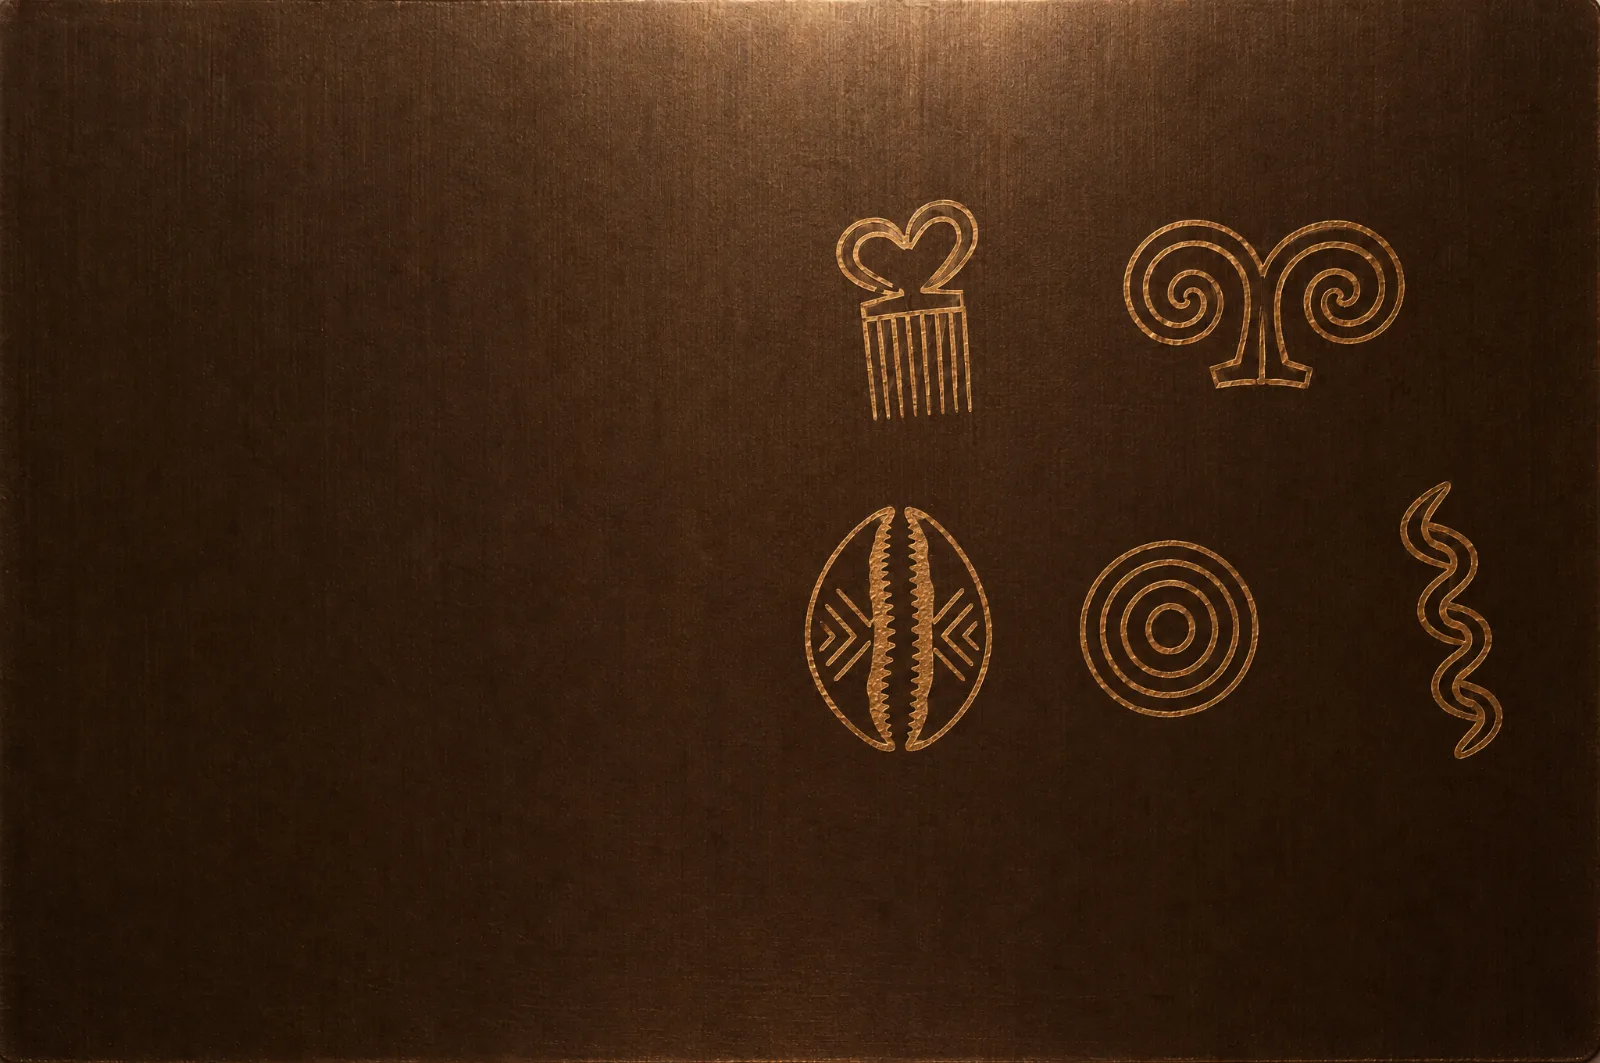
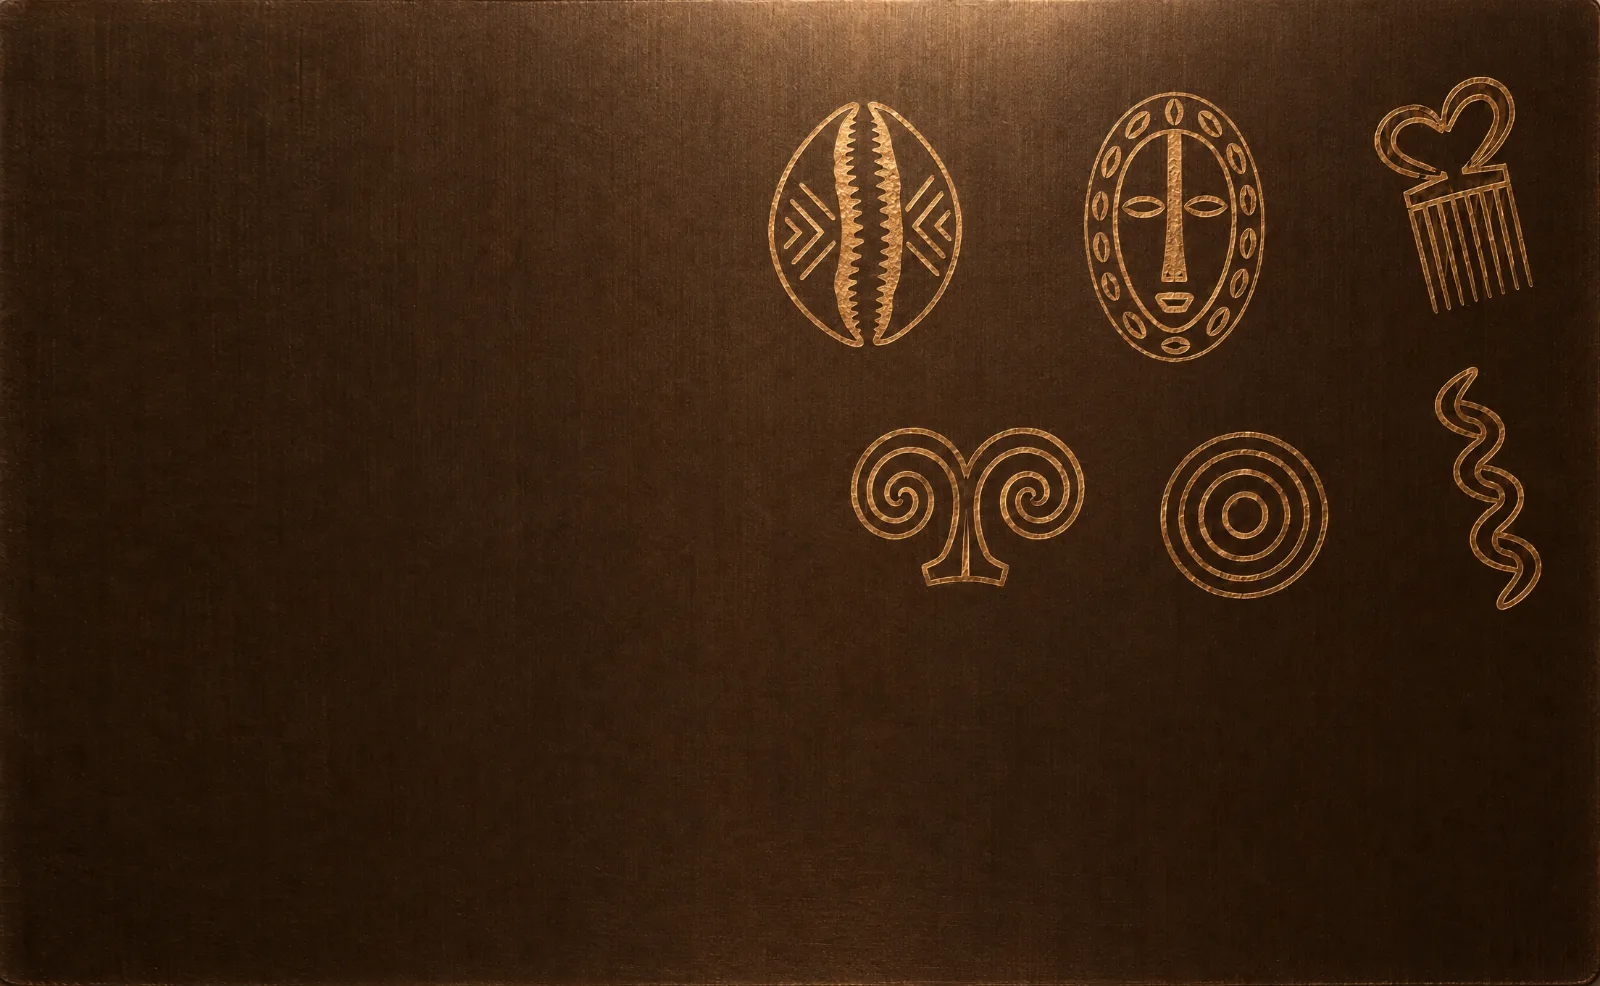
The card is one engraved object: a mask among six marks, and the type cut in the same gold
The owner rejected Playfair Display and asked for the first logo's face, which
the repository has never held — EtherealDemo-ExtraBold was a demo file, and
only the traced « Keelis » outlines were ever here. Outfit Black stands in,
the nearest open geometric black, self-hosted under SIL OFL, at 22px and
−0.045em, measured as where its round letters just stop touching.

They also asked for more symbols, a mask among them, in the corner disposition
of the first render, and for the type to carry the engraving's texture. A new
render from the first as image reference keeps its brushed metal and textured
gold and gathers six marks at one size toward the upper-right: the cowrie, a
West African mask ringed with cowries, Duafe, Dwennimmen, Adinkrahene and
Nkyinkyim. Its cowrie began where the name ends, so the source is widened by
160px on the left — the plain edge stretched along the grain, since a mirror
left a seam. The name, the number, the holder and the expiry are etched in the
same gold with two hairlines of relief, `--accent-etch` and `--text-etch`.

Verified: 281 unit tests, design check, the card page audited clean at 390 and
1440 in both themes on the final build, and all eighteen money flows.

Claude-Session: https://claude.ai/code/session_0169KRSSjajEYunkVuigzQ4Y

diff --git a/src/styles/tokens.css b/src/styles/tokens.css
@@ -240,15 +240,23 @@
   /* Financial figures use the same family with tabular figures, so columns line up.
      Bold, not black: at display sizes the size already carries the hierarchy. */
   --font-numeric: var(--font-sans);
-  /* The brand face on the virtual card: Playfair Display at its black weight, the owner's
-     choice for the name written on the card. Tracked tight — the owner asked for the letters
-     to sit with « little to no space between them, but not on top of each other »; −0.07em
-     is where Playfair's serifs just stop touching at 24px, measured: at −0.08em the two
-     e's of « Keewal » meet. */
-  --font-brand: "Playfair Display", "Georgia", "Times New Roman", serif;
-  --fs-card-name: 24px;
-  --ls-card-name: -0.07em;
+  /* The brand face on the virtual card: Outfit at its black weight, standing in for the
+     first logo's EtherealDemo-ExtraBold, which the repository does not hold. Tracked tight
+     because the owner asked for the letters to sit with « little to no space between them,
+     but not on top of each other »: measured at 22px, −0.045em is where Outfit's round
+     letters just stop touching. */
+  --font-brand: "Outfit", "Poppins", system-ui, sans-serif;
+  --fs-card-name: 22px;
+  --ls-card-name: -0.045em;
   --fw-card-name: 900;
+  /* The type on the card is engraved like its symbols: the etch gold — deeper than --cta
+     so a line on brushed brown reads as metal catching light, named in the accent family
+     because it is the one place outside the ramp allowed the accent's chroma — and a
+     letterpress relief, a hair of shadow above and of light below, which is what a laser
+     leaves in metal. Two hairlines at low alpha, not a glow: the owner does not want a
+     shadow on anything, and this is the one kind that is the texture rather than an effect. */
+  --accent-etch: oklch(0.78 0.105 84);
+  --text-etch: 0 -1px 0 oklch(0.12 0.02 60 / 0.55), 0 1px 0 oklch(0.95 0.05 90 / 0.22);
   --fw-numeric: 500;
   /* Big figures need optical compensation twice over: at 48px the counters carry
      themselves, so the weight can come down and the tracking can come in. */

diff --git a/src/styles/fonts.css b/src/styles/fonts.css
@@ -69,16 +69,18 @@
   unicode-range: U+0100-02BA, U+02BD-02C5, U+02C7-02CC, U+02CE-02D7, U+02DD-02FF, U+0304, U+0308, U+0329, U+1D00-1DBF, U+1E00-1E9F, U+1EF2-1EFF, U+2020, U+20A0-20AB, U+20AD-20C0, U+2113, U+2C60-2C7F, U+A720-A7FF;
 }
 
-/* Playfair Display Black — the brand face on the virtual card, and nowhere else yet. The
-   owner asked for the name set in « the boldest Playfair Display » on the card, tracked
-   tight, in place of the K disc. SIL Open Font License, self-hosted like Poppins; only the
-   Latin subset, because the two words it sets are Latin. Taken from the @fontsource
-   package (5.x) and copied here, so there is still no third-party request. */
+/* Outfit Black — the name on the virtual card, and nowhere else yet. The owner wants the
+   name on the card in the face of the first logo, EtherealDemo-ExtraBold — a demo release
+   that is not in this repository (only the traced « Keelis » outlines ever were, and they
+   are gone with the old name) and not licensed for commercial use. Outfit is the nearest
+   open face to it: a round geometric sans with a true black weight. SIL Open Font License,
+   self-hosted like Poppins, Latin subset only since the two words are Latin; taken from the
+   @fontsource package (5.x). It stands in until the owner supplies or licenses the real one. */
 @font-face {
-  font-family: 'Playfair Display';
+  font-family: 'Outfit';
   font-style: normal;
   font-weight: 900;
   font-display: swap;
-  src: url('/fonts/playfair-display-900-latin.woff2') format('woff2');
+  src: url('/fonts/outfit-900-latin.woff2') format('woff2');
   unicode-range: U+0000-00FF, U+0131, U+0152-0153, U+02BB-02BC, U+02C6, U+02DA, U+02DC, U+0304, U+0308, U+0329, U+2000-206F, U+20AC, U+2122, U+2191, U+2193, U+2212, U+2215, U+FEFF, U+FFFD;
 }

diff --git a/src/lib/photos.ts b/src/lib/photos.ts
@@ -83,9 +83,9 @@ export const PHOTOS = {
   card: {
     name: 'card',
     intent:
-      'The face of the virtual card, under the name, the last four digits and the holder’s name. A dark brown brushed-metal card lit by one warm light from the top, laser-engraved in textured butter-gold line: a cowrie shell from its slotted underside and four Adinkra symbols — Duafe, Dwennimmen, Adinkrahene, Nkyinkyim — all five at one size, laid out on the right half with space between them. The left half and the bottom band stay plain, because that is where the type sits.',
+      'The face of the virtual card, under the name, the last four digits and the holder’s name. A dark brown brushed-metal card lit by one warm light from the top, laser-engraved in textured butter-gold line: six marks at one size gathered toward the upper-right — a cowrie shell from its slotted underside, a West African mask ringed with cowries, Duafe, Dwennimmen, Adinkrahene and Nkyinkyim. The left half and the bottom band stay plain, because that is where the type sits; the source was widened by 160px on the left (its plain left edge stretched, along the grain) to keep the marks clear of the name.',
     present: true,
-    alt: 'Face de carte en métal brun brossé, gravée à l’or d’un cauri et de quatre symboles adinkra de même taille',
+    alt: 'Face de carte en métal brun brossé, gravée à l’or d’un cauri, d’un masque bordé de cauris et de quatre symboles adinkra',
     credit: 'Rendu commandé par le propriétaire sur son compte Higgsfield (GPT Image) — libre d’utilisation dans l’application',
     widths: [800, 1600],
     /* The picture is 3:2 and the card is 1.586:1, so the crop is vertical only; centred, the

diff --git a/src/features/checking/VirtualCard.module.css b/src/features/checking/VirtualCard.module.css
@@ -59,8 +59,17 @@
   font-weight: var(--fw-card-name);
   letter-spacing: var(--ls-card-name);
   line-height: 1;
-  color: var(--card-ink);
   white-space: nowrap;
+}
+/* Everything written on the card is engraved the way the symbols are — the same gold, the
+   same relief — so the number reads as cut into the metal beside the cowrie rather than
+   printed on a photograph of it. The owner asked for the type to carry the texture. */
+.name,
+.number,
+.holder,
+.expiry {
+  color: var(--accent-etch);
+  text-shadow: var(--text-etch);
 }
 .bottom {
   display: flex;
@@ -73,7 +82,6 @@
   letter-spacing: var(--ls-h2);
   font-weight: var(--fw-h2);
   font-variant-numeric: tabular-nums;
-  color: var(--card-ink);
 }
 .foot {
   display: flex;
@@ -87,7 +95,6 @@
   line-height: var(--lh-small);
   letter-spacing: 0.04em;
   text-transform: uppercase;
-  color: var(--card-ink-muted);
   min-width: 0;
   overflow: hidden;
   text-overflow: ellipsis;

diff --git a/CLAUDE.md b/CLAUDE.md
@@ -173,7 +173,7 @@ and the old wordmark only escaped that by shipping as outlines rather than as ty
 - **The front door is the sign-in.** The owner put the reference beside ours and asked for the same, and the difference was not the anatomy — that was already taken — but what the sheet *carries*: theirs holds the login, ours held three buttons, one of which led to a screen that held the login. Signing in is the front door for the person the app is for, and a button that leads to a door is a hallway. `/bienvenue` now carries the address and the code as two **pill fields** (`pill` on `Field`: `--r-pill`, and `--control-lg` tall, because a 44px control has to sit *inside* one with air on both sides), each with a **bare icon** at its head — the disc under it was tried and the owner read it as a shadow — the code's field carrying **« Recevoir » as a pill at the end of its own line** — the reference's « I forgot », which is the same situation: a field that cannot be filled until that pill is pressed. It reads « Renvoyer » after the first send, and only for the address it was sent to. The in-field pill is ink, the reference's own colour for it; **the call to action stays gold**, because the brand outranks the kit and two gold fills on one sheet would say nothing about which to press. Enter does the next thing, whichever it is. A right code with no account behind it goes to `/inscription`, which resumes from the state the server just opened — nobody is told « wrong address » for an address that is simply new. « Créer un compte » is a text action under the button, and the demo is a line in the footer. `/inscription/courriel` stays as the wizard's own first step, since the wizard still needs one.
 - **The photograph is the welcome screen's underlay, with nothing poured over it.** The owner asked for the image expanded under the sign-in, then for « the shadow on top » to go — the deep dissolve that carried the page colour down over the picture so the type could sit on it, which in the dark theme read as a wash over the top of the photograph. There is no dissolve on this frame now: the picture runs clean to the top edge, and the word, the mark and the sentence sit **on the picture itself, in the virtual card's ink** (`--card-ink` / `--card-ink-muted`, the paper disc pinned with `tone="paper"`), because the corridor the brief keeps dark is the same ground in both themes and dark ink on it would vanish in the light one. **The frame stops at 95% of the screen** (`inset: 0 0 5%`; on the desktop column, at the root's padding plus the sheet's radius, or a sliver of picture peeks under the sheet's rounded foot): `cover` scales the picture to the frame, so the frame's height is the one dial that places the mask's crown — at 80% the crown reached the sentence's second line once a notch pushed the type down, and the audit read pale ink against pale cowries at 1.02:1. **The sentence is one line** (« Votre argent, réuni. ») for the same reason: with 95% of frame it clears the crown by sixteen pixels under a notch, and the whole face — rows 31–51% of the file — sits above the sheet. **And the sign-in stays on the first screen** — the document is exactly 844px on an 844px phone, which the flows suite asserts. The image is free for anyone to use, on the owner's word, and the credit says so; the photographer is still unnamed.
 - **Text over a photograph with nothing over it is measured against the photograph's own pixels.** A bare frame used to be « unmeasurable », which was honest while the floor had to hold for any picture that might land in the slot. The picture is committed now — a test refuses a placeholder, and the audit runs on the very bytes that ship — so `photoFloor` draws the frame's `<img>` to a canvas at natural size, maps the text's **line boxes** (`Range.getClientRects`, not the element box: the title's box is 24ch wide and reached the warm lamp at the end of the corridor, which the first version reported as 1.01:1 for a sentence whose lines both end before it) into the image through `object-fit: cover` and the slot's `object-position`, and takes the pixel the ink loses against hardest. An audit reports the floor. Falsified: the title set in `--card-surface` is flagged at 1.00:1 against the corridor. A frame with a scrim or a dissolve is still measured through the ramp, over black and white, taking the worse; and the walk through `elementsFromPoint` stops at the first *ancestor* that paints an opaque fill, because a photograph under an opaque sheet is one nobody sees.
-- **The virtual card carries the name in Playfair Display Black, over an engraved metal face that came in through GitHub.** The owner put a Revolut metal card beside a cowrie print and a sheet of Adinkra symbols and asked for the same. The face is the `card` photo slot: dark brushed-brown metal rendered on the owner's Higgsfield account (GPT Image), laser-etched in textured gold with a cowrie from its slotted underside and Duafe, Dwennimmen, Adinkrahene and Nkyinkyim, **all five at one size** — the first render had the cowrie bigger than the others and the owner asked for them the same size; a second pass with the first render as the image reference kept the texture they liked and equalised the marks. (A vector engraving was tried in between, from misreading « same size » as « even shape »; the owner preferred the render's etched texture, and it is gone.) The symbols sit on the right half; the type owns the left. **The name replaces the K**: « Keewal Meere » set in `--font-brand`, Playfair Display at 900, self-hosted under SIL OFL from the @fontsource package (Latin subset only, since the two words are Latin), at `--fs-card-name` 24px and `--ls-card-name` −0.07em — measured: at −0.08em the two e's of « Keewal » meet, and the owner asked for « little to no space between them, but not on top of each other ». It is the one place the brand face is live text, on the owner's instruction; the app's wordmark elsewhere is still the Poppins stopgap. **There is no « Virtuelle » label.** The gradient is still painted under the photo as the ground, so a card with the slot off is the card that shipped before; frozen dims metal and type together. The source PNG stays in `brand-src/card/`, not served. **The bytes could not be downloaded here** — the build sandbox's proxy refuses every image host, CloudFront and a Vercel sandbox alike — so `.github/workflows/fetch-artwork.yml` exists: dispatched by hand with URLs, a runner downloads them under `brand-src/` and commits, and the importer takes it from there. A workflow is only dispatchable once it exists on the default branch, which is why it was merged before it was run.
+- **The virtual card is an engraved metal object: the name, the number and the marks all cut in the same gold.** The owner put a Revolut metal card beside a cowrie print and a sheet of Adinkra symbols and asked for the same. The face is the `card` photo slot: dark brushed-brown metal rendered on the owner's Higgsfield account (GPT Image), laser-etched in textured gold with six marks **at one size** gathered toward the upper-right — a cowrie from its slotted underside, a West African mask ringed with cowries (the owner asked for « more symbols, like a mask »), Duafe, Dwennimmen, Adinkrahene and Nkyinkyim. It is the fourth render of the face: the first had the cowrie bigger than the rest (« I meant the same size »), a vector engraving was tried from misreading that as « even shape » and the owner preferred the render's etched texture, and the third was a grid rather than the corner constellation they liked. Each was made with the first render as the image reference so the texture stayed. **The source is the render widened by 160px on the left — its plain left 300px stretched to 460**, because its cowrie began where the name ends and the crop is vertical only, so that is the one dial that moves the marks right; stretched rather than mirrored, since the grain is horizontal and a mirror left a seam. **The type is engraved like the marks**: `--accent-etch` gold (deeper than `--cta`, named in the accent family because it is the one place outside the ramp allowed the accent's chroma) and `--text-etch`, two hairlines of relief — dark above, light below — which is what a laser leaves in metal, on the name, the number, the holder and the expiry. **The name replaces the K**, in `--font-brand`: the owner wants the face of the first logo, EtherealDemo-ExtraBold, which this repository has never held (only the traced « Keelis » outlines did, and they went with the old name) and which is a demo not licensed for commercial use; **Outfit Black stands in** — the nearest open geometric black, self-hosted under SIL OFL from @fontsource, Latin subset — at 22px and −0.045em, measured as where its round letters just stop touching, since the ask was « little to no space between them, but not on top of each other ». Playfair Display was tried first and rejected. **There is no « Virtuelle » label.** The gradient is still painted under the photo as the ground, so a card with the slot off is the card that shipped before; frozen dims metal and type together. The source PNG stays in `brand-src/card/`, not served. **The bytes could not be downloaded here** — the build sandbox's proxy refuses every image host, CloudFront and a Vercel sandbox alike — so `.github/workflows/fetch-artwork.yml` exists: dispatched by hand with URLs, a runner downloads them under `brand-src/` and commits, and the importer takes it from there. A workflow is only dispatchable once it exists on the default branch, which is why it was merged before it was run.
 - **The one heading at the body weight.** The reference sets its welcome line thin, and a 600 sentence over a photograph is a headline where a greeting is wanted. `.title` on this screen takes `--fw-body` with `--ls-body`, since negative heading tracking is what keeps a demi sentence from spreading and reads pinched on a light one. It is the one heading in the app that is not about anything — it is hello — and that is the whole of why it is allowed.
 - **The welcome screen's anatomy comes from the owner's reference**: one word across the top with the theme control (the row opened with « Keewal Meere » as a label and the owner asked for it to go — the brand on this screen is the K, and a name typed beside the mark was a second wordmark nobody drew; the toggle keeps its 44px hit area and draws a 32px disc inside it, because the full disc was too big for a preference in a corner), the monogram and the sentence, a **full-bleed** hero, and a rounded sheet riding up over the frame carrying the actions. The hero is unrounded on purpose — it was inset in the gutter at `--r-panel` with the sheet's `--r-sheet` directly under it, two radii arguing at the one seam the eye is already on. A hero is the element that bleeds; the only rounding in the composition is the sheet riding over it.
 
